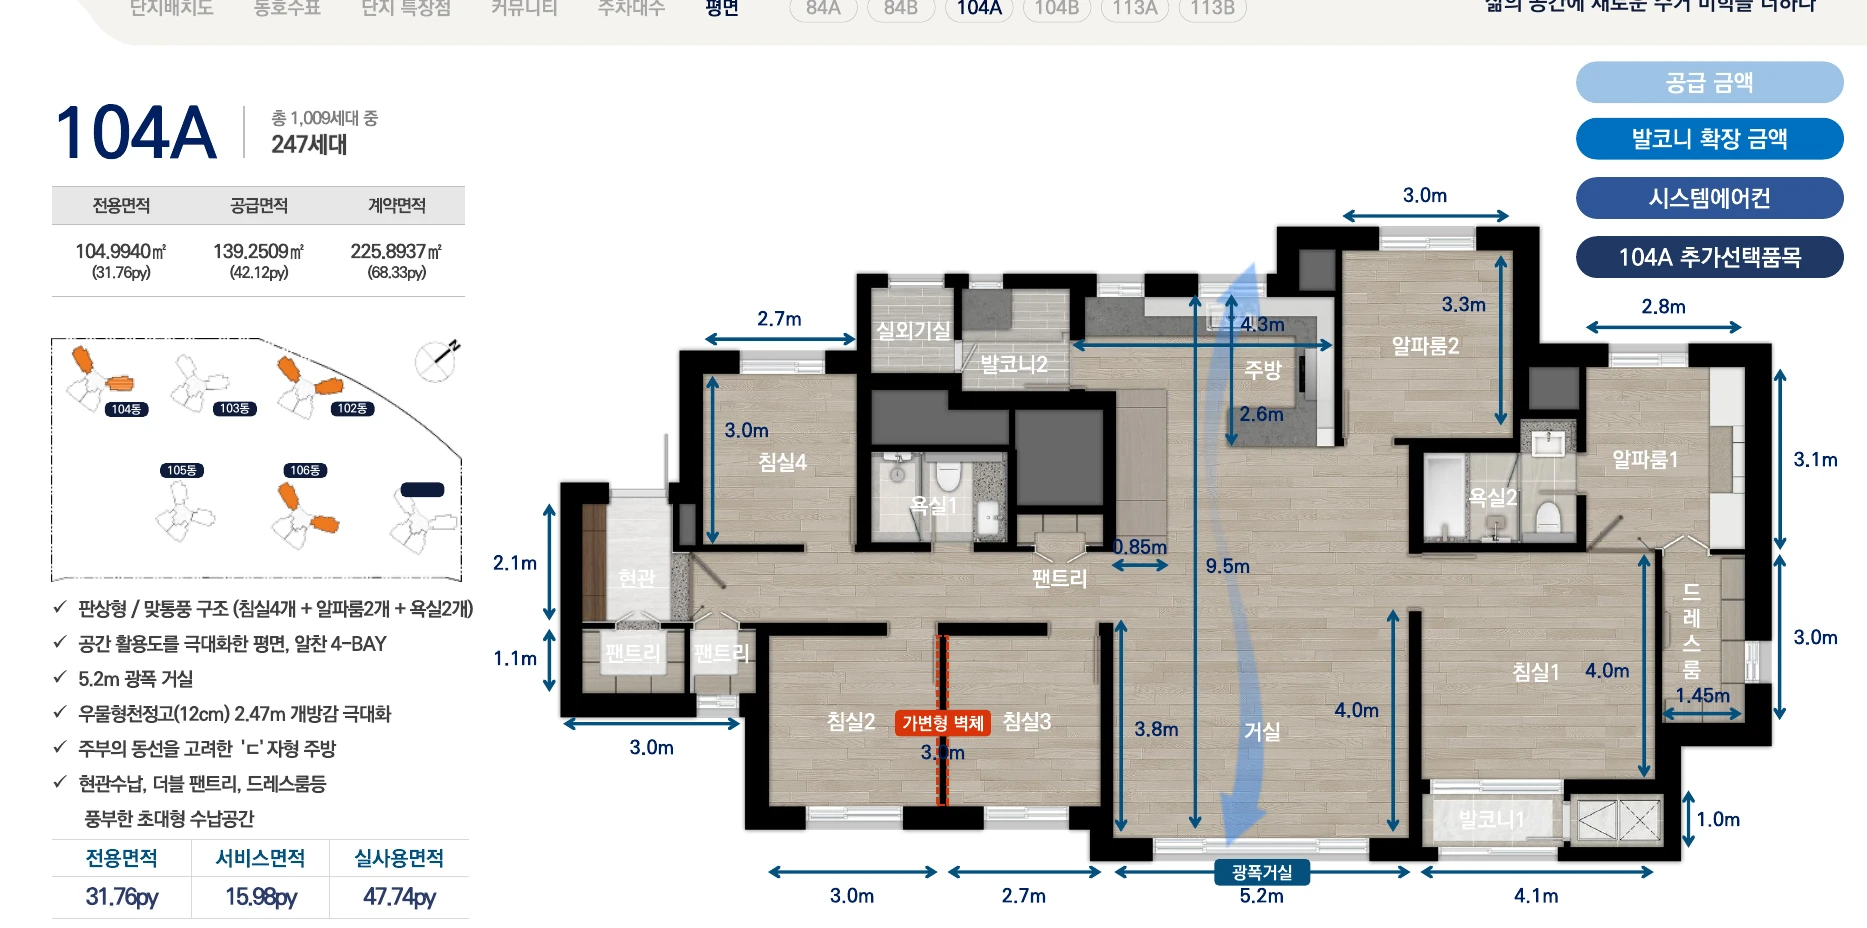
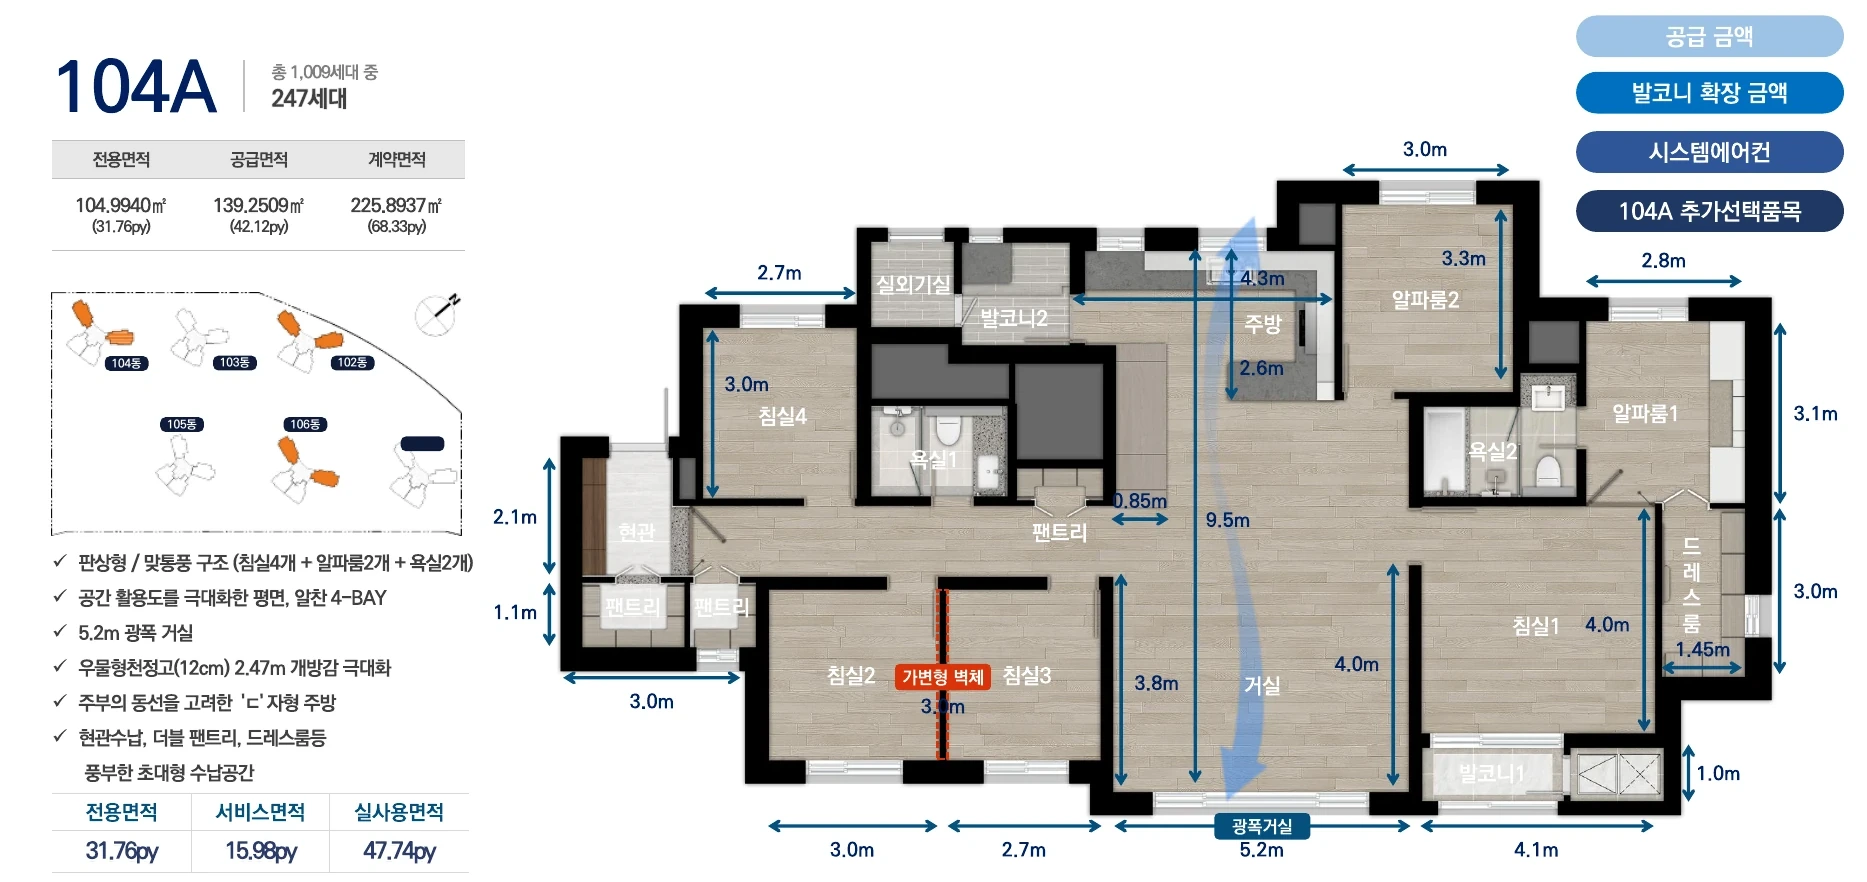
Release v7.1 brochure and floor plan cleanup

diff --git a/app/globals.css b/app/globals.css
@@ -1261,3 +1261,103 @@ body.mobileNavOpen{overflow:hidden}
     grid-template-columns: 1fr;
   }
 }
+
+
+/* ===== v7.1 brochure image final cleanup ===== */
+.officialV60Panel,
+.floorV60Panel {
+  overflow: hidden;
+  border-radius: 22px;
+}
+
+.officialV61ImageButton,
+.floorV61ImageButton {
+  align-self: stretch;
+  min-height: 0;
+}
+
+.officialV61Image,
+.floorV61Image {
+  width: 100%;
+  max-width: 100%;
+  height: auto;
+  object-fit: contain;
+  object-position: center;
+}
+
+.floorV61ImageButton {
+  padding: clamp(10px, 2vw, 24px);
+  background:
+    linear-gradient(135deg, rgba(255,255,255,.86), rgba(245,242,235,.94));
+}
+
+.floorV61Image {
+  max-height: none;
+  border-radius: 8px;
+  box-shadow: 0 12px 34px rgba(16, 32, 59, .08);
+}
+
+.officialV61Image {
+  max-height: none;
+}
+
+@media (min-width: 901px) {
+  .floorV60Panel {
+    grid-template-columns: minmax(0, 1.78fr) minmax(310px, .62fr);
+  }
+
+  .floorV61ImageButton {
+    min-height: 560px;
+  }
+}
+
+@media (max-width: 900px) {
+  .officialV60Panel,
+  .floorV60Panel {
+    border-radius: 16px;
+  }
+
+  .officialV61ImageButton,
+  .floorV61ImageButton {
+    min-height: 0;
+    overflow: visible;
+  }
+
+  .officialV61Image,
+  .floorV61Image {
+    width: 100%;
+    height: auto;
+  }
+
+  .floorV60Panel .floorInfo {
+    min-height: 0;
+  }
+}
+
+@media (max-width: 560px) {
+  .officialV61ImageButton,
+  .floorV61ImageButton {
+    padding: 6px;
+  }
+
+  .floorV61Image {
+    border-radius: 5px;
+    box-shadow: none;
+  }
+
+  .planTabs {
+    display: flex;
+    overflow-x: auto;
+    scroll-snap-type: x proximity;
+    scrollbar-width: thin;
+  }
+
+  .planTabs button {
+    flex: 0 0 78px;
+    scroll-snap-align: start;
+  }
+
+  .floorZoomCanvas .brochureZoomImage {
+    width: max(100%, 1180px);
+  }
+}

diff --git a/components/FloorPlans.tsx b/components/FloorPlans.tsx
@@ -81,7 +81,7 @@ export default function FloorPlans() {
               src={plan.image}
               alt={`${plan.id} 타입 공식 평면도`}
               width={1867}
-              height={928}
+              height={882}
               sizes="(max-width: 900px) 100vw, 68vw"
               className="floorV61Image"
             />
@@ -108,7 +108,7 @@ export default function FloorPlans() {
         <div className="brochureZoom" role="dialog" aria-modal="true" aria-label={`${plan.id} 타입 평면도 확대 이미지`} onClick={() => setZoomOpen(false)}>
           <button type="button" className="brochureZoomClose" onClick={() => setZoomOpen(false)} aria-label="확대 이미지 닫기">×</button>
           <div className="brochureZoomCanvas floorZoomCanvas" onClick={(event) => event.stopPropagation()}>
-            <Image src={plan.image} alt={`${plan.id} 타입 공식 평면도`} width={1867} height={928} className="brochureZoomImage" priority />
+            <Image src={plan.image} alt={`${plan.id} 타입 공식 평면도`} width={1867} height={882} className="brochureZoomImage" priority />
           </div>
         </div>
       )}

diff --git a/components/SystemCheckClient.tsx b/components/SystemCheckClient.tsx
@@ -214,8 +214,7 @@ export default function SystemCheckClient() {
               <h2>연동 테스트 전송</h2>
             </div>
             <p>
-              테스트 시 이름은 ‘연동 테스트’, 번호는 ‘010-0000-0000’으로
-              전달됩니다.
+              테스트 시 이름은 ‘연동 테스트’, 번호는 ‘010-0000-0000’으로 전달됩니다. 문자 수신 여부와 Google Sheets의 관심고객 탭을 함께 확인해 주세요.
             </p>
           </div>
 

diff --git a/app/api/health/route.ts b/app/api/health/route.ts
@@ -17,7 +17,7 @@ export function GET() {
 
   return NextResponse.json({
     ok: true,
-    version: "7.0.0",
+    version: "7.1.0",
     productionReady: integrations.googleSheets && integrations.sms,
     integrations,
     checkedAt: new Date().toISOString(),

diff --git a/README-v71.md b/README-v71.md
@@ -1,0 +1,26 @@
+# v7.1 이미지·평면도 최종 정리
+
+## 반영 내용
+
+- 84A·84B·104A·104B·113A·113B 평면도 상단의 상담북 메뉴 영역 제거
+- PC에서 평면도 전체 비율 유지 및 잘림 방지
+- 모바일에서 타입 탭을 가로 스크롤 방식으로 개선
+- 확대 보기에서 넓은 도면을 가로 스크롤로 세밀하게 확인 가능
+- 공식자료와 평면도 카드의 모서리·여백·그림자 통일
+- `/api/health` 버전 7.1.0
+- Google Sheets와 SOLAPI 문자 기능 유지
+
+## 적용
+
+```bash
+npm install
+npm run dev
+```
+
+정상 확인 후:
+
+```bash
+git add .
+git commit -m "Release v7.1 brochure and floor plan cleanup"
+git push
+```
